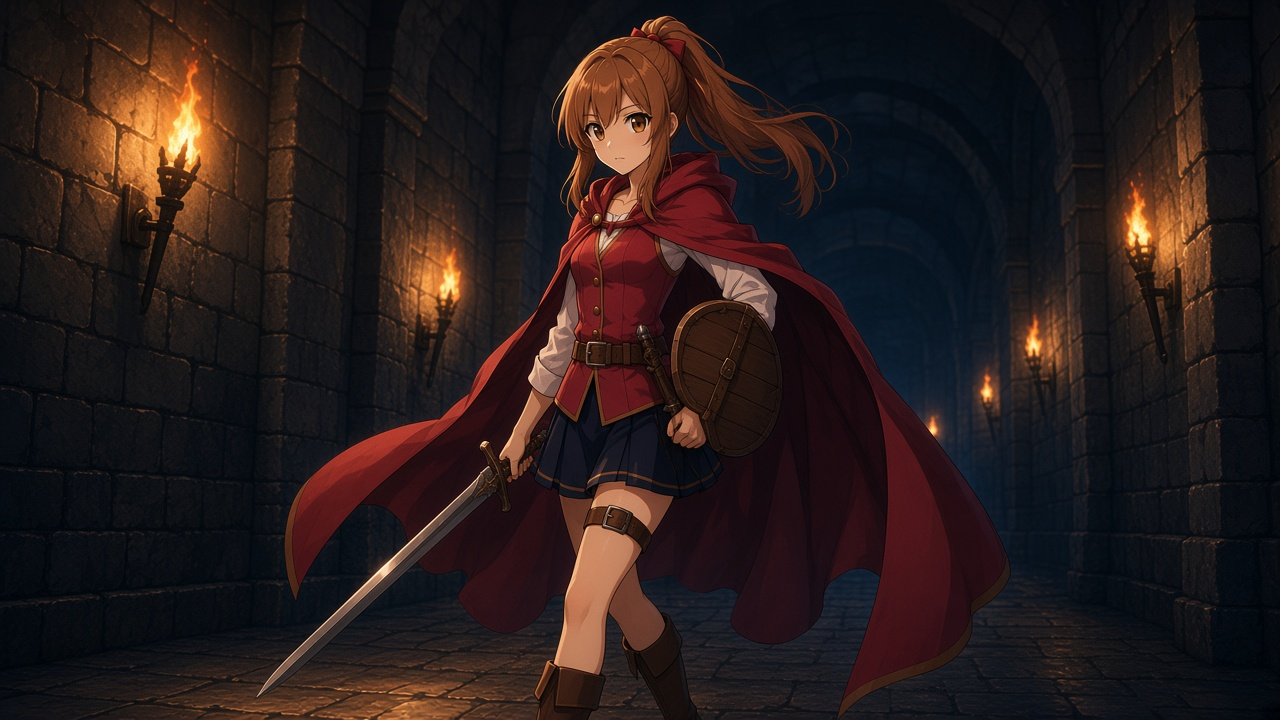
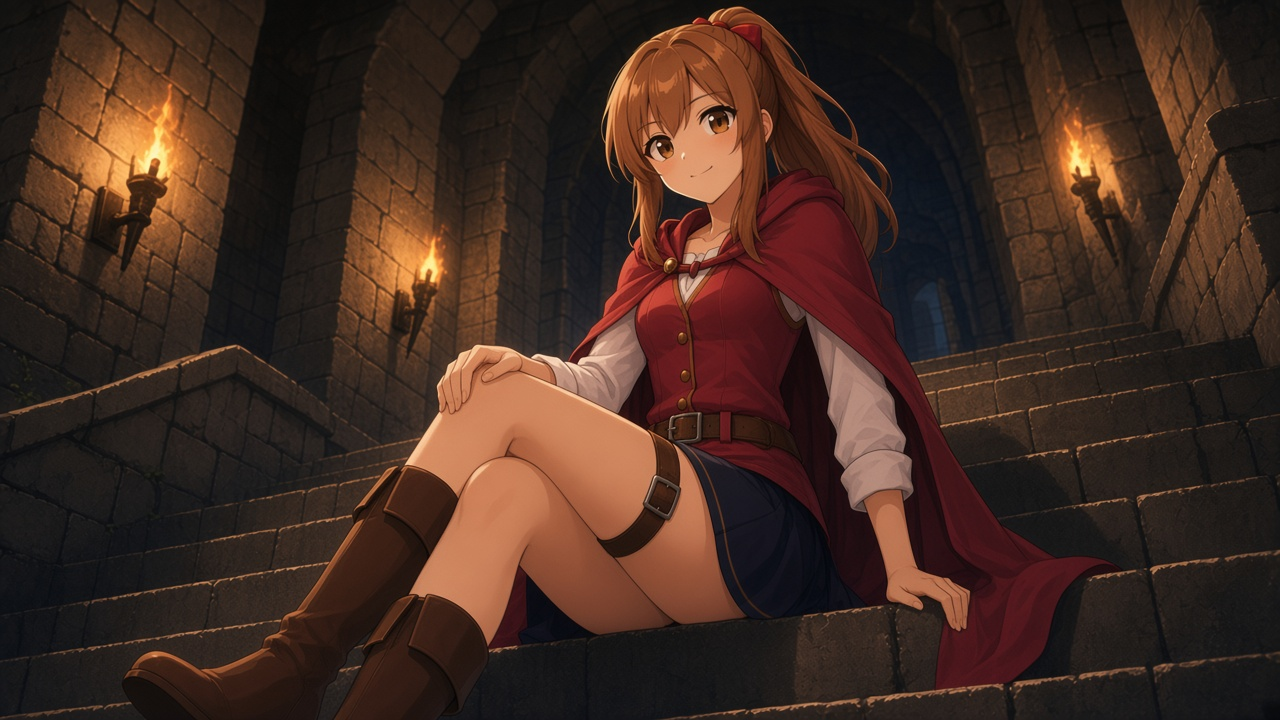
女の戦士の1枚目の候補を、際どいアングルで剣なしにする

diff --git a/index.html b/index.html
@@ -8939,7 +8939,7 @@
             <h4>女の戦士の一枚絵（候補）</h4>
             <p class="album-meta">背景はダンジョン。いったん候補。採用したら上の一枚絵に差し替える</p>
             <div class="ref-grid">
-              ${sheetFig("girl-action-cool.jpg?v=1", "かっこいい", "land-ref", "span-2")}
+              ${sheetFig("girl-action-cool.jpg?v=2", "際どいアングル・剣なし", "land-ref", "span-2")}
               ${sheetFig("girl-action-sexy.jpg?v=1", "セクシー", "land-ref", "span-2")}
               ${sheetFig("girl-action-dare.jpg?v=1", "同じ座り・違う手・際どいアングル", "land-ref", "span-2")}
             </div>
